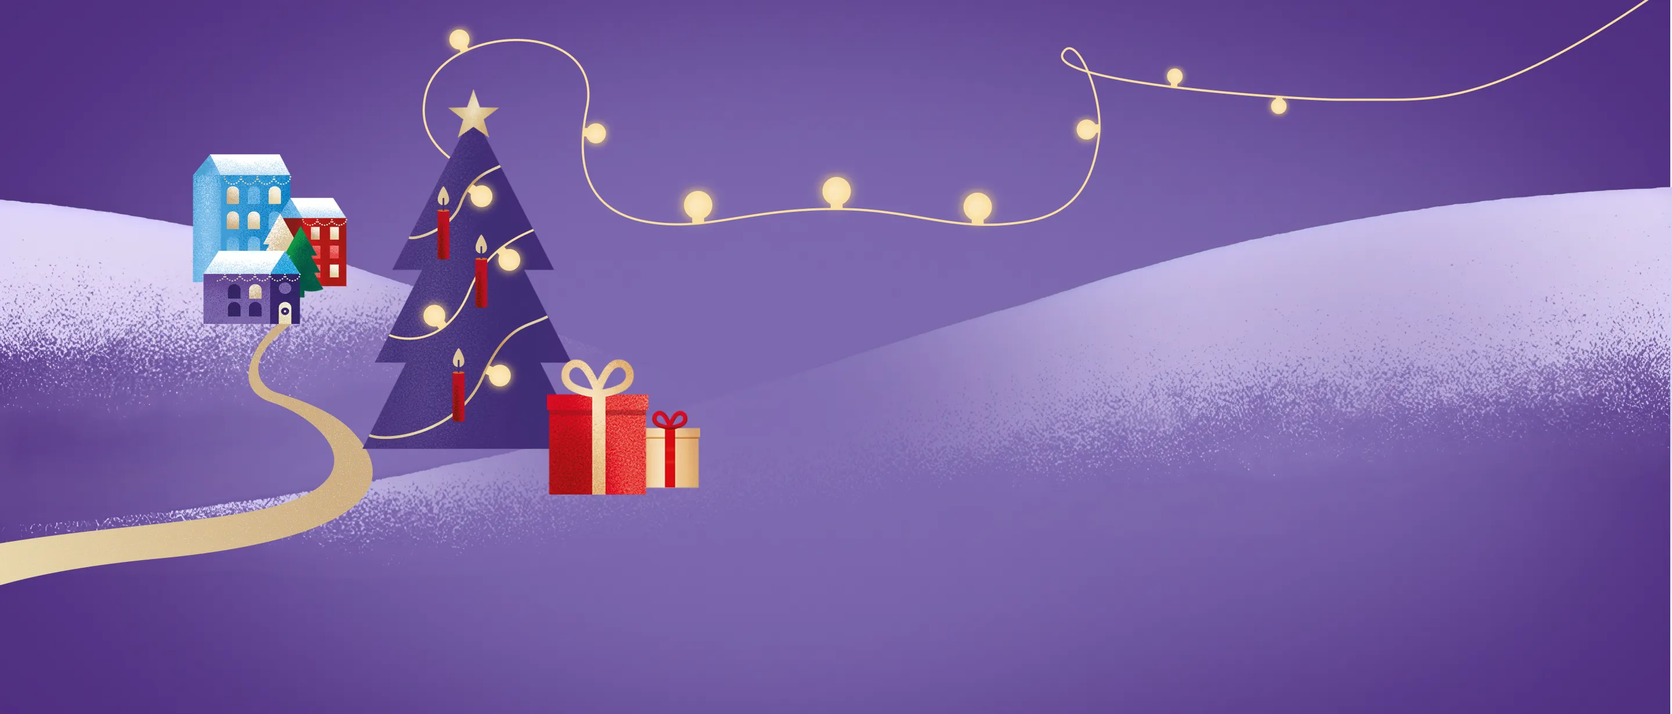
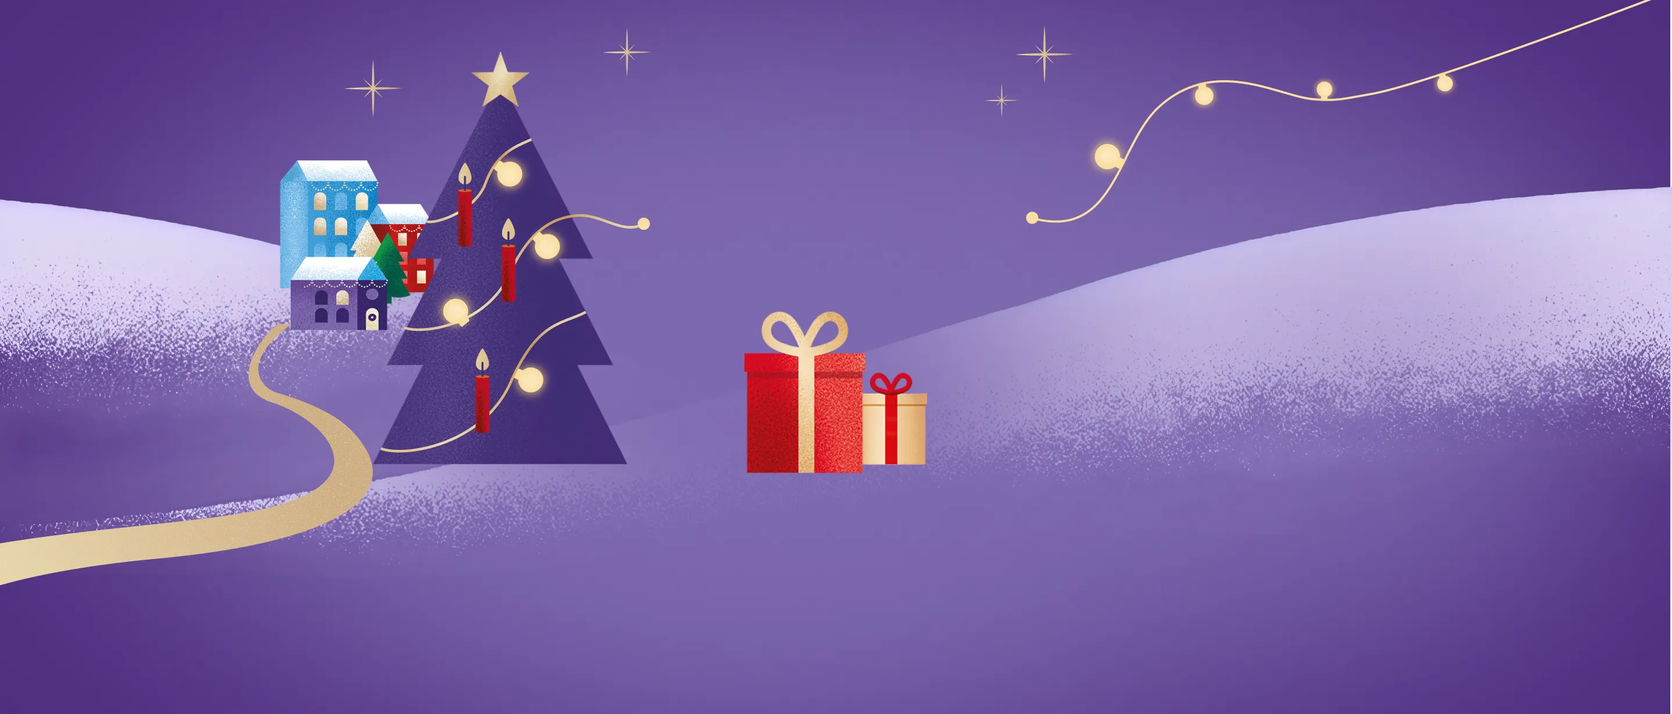
remake kero

diff --git a/assets/css/styles.min.css b/assets/css/styles.min.css
@@ -1,1 +1,1 @@
-:root{--font: "congenial", sans-serif;--heavy: "heavy", sans-serif;--gradient: linear-gradient(90deg, #ecddb2 0%, #cead7c);--white: #ffffff;--black: #000000;--bg: #513082;--color: #3b2774;--violet: #7d69af;--yellow: #f9dea2}@font-face{font-family:"congenial";src:url("../fonts/congenial-light.woff2") format("woff2");font-weight:300;font-style:normal}@font-face{font-family:"congenial";src:url("../fonts/congenial-medium.woff2") format("woff2");font-weight:500;font-style:normal}@font-face{font-family:"heavy";src:url("../fonts/heavy.woff2") format("woff2");font-weight:500;font-style:normal}@keyframes rotate{0%{transform:rotate(0deg)}100%{transform:rotate(360deg)}}@keyframes rotateleft{0%{transform:rotate(0deg)}100%{transform:rotate(-360deg)}}@keyframes pulse{0%{transform:scale(1)}50%{transform:scale(1.1)}100%{transform:scale(1)}}@keyframes blink{0%,100%{opacity:1}50%{opacity:0}}@keyframes scrollDown{0%,100%{transform:translateY(0) scaleX(0.8)}50%{transform:translateY(-10px) scaleX(1)}}@keyframes slide{0%{transform:translate(-200%, -25%) rotate(-40deg)}30%,100%{transform:translate(200%, -25%) rotate(-40deg)}}@keyframes bounce{0%{transform:scale(1)}25%{transform:scale(1)}30%{transform:scale(1.1)}35%{transform:scale(1.08)}40%{transform:scale(1.1)}45%{transform:scale(1.095)}50%{transform:scale(1.1)}75%{transform:scale(1.1)}80%{transform:scale(1)}85%{transform:scale(1.02)}90%{transform:scale(1)}95%{transform:scale(1.005)}100%{transform:scale(1)}}:root{font-synthesis:none;text-rendering:optimizeLegibility;-webkit-font-smoothing:antialiased;-moz-osx-font-smoothing:grayscale;outline:none;-webkit-tap-highlight-color:rgba(0,0,0,0);backface-visibility:hidden;-webkit-text-size-adjust:100%}*,*:before,*:after{padding:0;margin:0;box-sizing:border-box;-webkit-tap-highlight-color:rgba(0,0,0,0)}html{height:100%}body{overscroll-behavior:none;-webkit-overflow-scrolling:auto;position:relative;width:100%;height:100%;background-color:var(--bg);color:var(--white);font-family:var(--font);font-weight:300;line-height:1.4;overflow-x:hidden;overflow-y:auto}html,body{overscroll-behavior:none}img{display:block;-o-object-fit:cover;object-fit:cover;-webkit-user-select:none;-moz-user-select:none;user-select:none}h1,h2,h3,h4,h5,h6,b,strong{font-family:var(--heavy);color:inherit}button{position:relative;border:none;cursor:pointer;background:none;color:inherit}button:disabled{cursor:auto;opacity:.3;pointer-events:none}ul,menu{list-style:none}a{text-decoration:none}.gradient{background-image:var(--gradient);background-clip:text;-webkit-background-clip:text;color:rgba(0,0,0,0);-webkit-text-fill-color:rgba(0,0,0,0)}.body{display:flex;flex-direction:column}.main{display:block;position:relative;z-index:1;flex:1}.container{display:block;position:relative;width:100%;max-width:1280px;margin:0 auto}.container.container--800{max-width:802px}@media(max-width: 1310px){.container{padding:0px 20px}}.section{position:relative;overflow:hidden;z-index:2}.section.visible{overflow:visible}.slider-arrows{display:inline-flex;gap:12px;padding-bottom:10px;justify-content:space-between}@media(max-width: 1279px){.slider-arrows{gap:10px;padding-bottom:8px}}@media(max-width: 767px){.slider-arrows{display:none}}.swiper{width:100%}.swiper-arrow{display:flex;position:absolute;width:44px;height:44px;border:none;flex-wrap:wrap;justify-content:center;align-items:center;align-content:center;opacity:1;transition:opacity .3s;z-index:3;margin-top:-35px;top:50%}.swiper-arrow[data-arrow-prev]{background:url("../img/svg/arrow-prev.svg") no-repeat center center;background-size:auto 100%;right:calc(100% + 20px)}.swiper-arrow[data-arrow-next]{background:url("../img/svg/arrow-next.svg") no-repeat center center;background-size:auto 100%;left:calc(100% + 20px)}.swiper-arrow.swiper-button-disabled{opacity:.3;pointer-events:none}@media(max-width: 899px){.swiper-arrow{display:none}}.swiper-pagination{display:flex;position:relative;width:100% !important;height:20px;flex-wrap:wrap;justify-content:center;align-items:center;align-content:center;bottom:0px !important;gap:20px}.swiper-pagination .swiper-pagination-bullet{display:flex;justify-content:center;align-items:center;align-content:center;position:absolute;left:50% !important;transform:scale(1) translate(-50%, 0%);margin:0 !important;opacity:0;width:40px;height:20px;border-radius:0px;background:none;transition:.6s !important;pointer-events:none}.swiper-pagination .swiper-pagination-bullet.swiper-pagination-bullet-active-next-next{position:absolute;transform:scale(1);left:50% !important;opacity:0;transform:translate(calc(200% + 20px), 0%)}.swiper-pagination .swiper-pagination-bullet.swiper-pagination-bullet-active-prev-prev{position:absolute;transform:scale(1);left:50% !important;opacity:0;transform:translate(calc(-300% - 20px), 0%)}.swiper-pagination .swiper-pagination-bullet.swiper-pagination-bullet-active-main{position:absolute;transform:scale(1);left:50% !important;opacity:1;transform:translate(-50%, 0%)}.swiper-pagination .swiper-pagination-bullet.swiper-pagination-bullet-active-next{position:absolute;transform:scale(1);left:50% !important;opacity:.3;transform:translate(100%, 0%);pointer-events:all}.swiper-pagination .swiper-pagination-bullet.swiper-pagination-bullet-active-prev{position:absolute;transform:scale(1);left:50% !important;opacity:.3;transform:translate(-200%, 0%);pointer-events:all}.swiper-pagination .swiper-pagination-bullet:before{content:"";position:absolute;width:100%;height:4px;border-radius:2px;background-color:var(--color);opacity:1;transition:background-color .3s,opacity .3s}.swiper-pagination .swiper-pagination-bullet.swiper-pagination-bullet-active:before{background-color:var(--brown)}.header{display:block;position:absolute;left:0px;top:0px;width:100%;height:160px}.header .logo{position:absolute;width:clamp(131px, 6.8229vw, 341px);height:clamp(64px, 3.3333vw, 167px);right:50%;top:clamp(45px, 2.3438vw, 117px);margin-right:clamp(520px, 27.0833vw, 1354px)}.header .logo img{width:100%;height:100%}.header .fond{position:absolute;width:clamp(90px, 4.6875vw, 234px);border-radius:80px;height:clamp(80px, 4.1667vw, 208px);left:50%;top:clamp(20px, 1.0417vw, 52px);transform:translate(clamp(586px, 30.5208vw, 1526px), 0px)}@media(max-width: 1430px)and (min-width: 768px){.header .logo{position:absolute;width:131px;height:64px;right:auto;left:20px;top:30px;margin-right:0px}.header .fond{width:60px;height:54px;border-radius:0px;left:auto;right:20px;top:30px;background:url("../img/logo-fond.webp") no-repeat center center/cover;transform:translate(0px, 0px)}}@media(max-width: 767px){.header .logo{position:absolute;width:100px;height:48px;right:auto;left:20px;top:20px;margin-right:0px}.header .fond{width:60px;height:60px;left:50%;top:14px;transform:translate(98px, 0px)}}.button{display:flex;overflow:hidden;z-index:1;min-height:42px;font-family:var(--font);justify-content:center;align-items:center;align-content:center;position:relative;color:var(--white);padding:10px 30px;z-index:1;transition:background .3s,transform .2s;-webkit-user-select:none;-moz-user-select:none;user-select:none;outline:none;cursor:pointer;border-radius:40px;background:linear-gradient(180deg, #ff2933, #7b1015);transform:translate(0px, 0px)}.button span{display:flex;width:100%;justify-content:center;align-items:center;align-content:center;font-weight:500;padding-top:1px;font-size:18px;line-height:1}.button:before{content:"";display:block;position:absolute;left:0px;top:0px;width:100%;height:100%;background:url("../img/noize.png") repeat;background-size:20px 20px;opacity:.4}.button.button--violet{min-height:40px;background:var(--violet)}.button.button--violet span{font-size:12px;font-weight:500;line-height:1;text-transform:uppercase}.button.button--violet:before{content:none}@media(hover: hover){.button.button--violet:hover,.button.button--violet:focus{background:var(--color)}}.button.full{width:100%}.button:active{transform:translate(0px, 2px)}.titles .title:before,.titles .title:after{content:"";display:block;position:absolute;height:125px;width:100vw;background:url("../img/lights.webp") no-repeat left center;background-size:auto 100%;top:50%}@media(max-width: 767px){.titles .title:before,.titles .title:after{content:none}}.titles .title:before{right:100%;transform:translate(0px, -50%) scaleX(-1)}.titles .title:after{left:100%;transform:translate(0px, -50%)}.titles.no-lights .title:before,.titles.no-lights .title:after{content:none}@media(min-width: 2044px){.titles.no-lights{margin-top:40px}}.titles .subtitle{margin-top:10px}.title{position:relative;text-align:center;text-transform:uppercase;font-family:var(--font);margin:0 auto}.title .ta--l{text-align:left}.subtitle{font-weight:500;font-size:28px;line-height:1.1;text-align:center;text-transform:uppercase;color:var(--white);font-family:var(--font);font-weight:500}@media(max-width: 767px){.subtitle{font-size:22px;max-width:345px;margin:auto;margin-top:16px;margin-bottom:10px}}.subtitle .ta--l{text-align:left}svg text.title.title--h2{font-size:44px;font-family:var(--font);text-transform:uppercase}svg text.title.title--h1{font-size:54px;font-family:var(--heavy);text-transform:uppercase}.title.title--main{width:clamp(344px, 17.9167vw, 896px);position:relative}@media(max-width: 1279px){.title.title--main{top:-20px}}@media(max-width: 767px){.title.title--main{width:300px;top:18px}}.title.title-products{width:344px;position:relative}@media(max-width: 1279px){.title.title-products{margin-bottom:-10px}}@media(max-width: 767px){.title.title-products{width:260px;margin-bottom:-20px;margin-top:20px}}@media(max-width: 414px){.title.title-products{margin-top:-20px}}.title.title--nabor{width:514px;position:relative}@media(max-width: 1279px){.title.title--nabor{margin-bottom:-10px}}@media(max-width: 767px){.title.title--nabor{width:100%;margin-bottom:0px}}.title.title--brends{width:310px;position:relative}@media(max-width: 1279px){.title.title--brends{margin-bottom:-10px}}@media(max-width: 767px){.title.title--brends{width:230px;margin-bottom:-20px}}.section--hero{position:relative;will-change:transform;width:100%;height:clamp(820px, 42.7083vw, 1012px);pointer-events:none}.section--hero .container{position:relative;z-index:2;pointer-events:all}.section--hero .header{z-index:3}.section--hero .header a{pointer-events:all}.section--hero .titles{margin-top:clamp(60px, 3.125vw, 156px)}.section--hero:before{content:"";display:block;position:absolute;right:0px;top:120px;width:clamp(120px, 8.5938vw, 204px);height:clamp(148px, 10.625vw, 252px);background:url("../img/home.webp") no-repeat center center/cover;z-index:2}@media(min-width: 1600px){.section--hero:before{top:180px;right:-19px}}@media(min-width: 1921px){.section--hero:before{right:0px;top:240px}}@media(max-width: 767px){.section--hero:before{top:580px}}.scene{display:block;position:absolute;z-index:1;left:50%;top:0px;width:100%;min-width:1920px;height:820px;transform:translate(-50%, 0%);pointer-events:none;background:url("../img/hero-bg.webp") no-repeat center top/cover}@media(max-width: 1430px){.scene{background:url("../img/hero-bg-tablet.webp") no-repeat center top/cover}}.description{display:flex;flex-direction:column;justify-content:flex-start;align-items:center;width:100%;max-width:460px;margin:0 auto;margin-top:clamp(80px, 4.1667vw, 208px);text-align:center;gap:10px}.description ul{display:flex;position:relative;width:100%;flex-wrap:wrap;justify-content:center;align-items:flex-start;align-content:flex-start;gap:10px}.description ul li{flex:1;font-size:18px;font-weight:500;text-transform:uppercase}.description ul li b{font-size:24px;color:var(--yellow)}@media(max-width: 1279px){.section--hero{height:750px;margin-bottom:-450px}.scene{height:750px;background-size:1600px 700px}.description{max-width:400px;margin-top:40px;gap:0px}.description ul li{font-size:16px}.description ul li b{font-size:22px}}@media(max-width: 767px){.section--hero{height:1024px;margin-bottom:-370px}.scene{height:1024px;background:url("../img/hero-bg-mobil.webp") no-repeat center top/cover;background-size:768px 1024px}}@media(max-width: 767px)and (max-width: 414px){.scene{background:url("../img/hero-bg-mobil2.webp") no-repeat center top/cover;background-size:414px 1024px}}@media(max-width: 767px){.description{max-width:310px;margin-top:54px;gap:0px}.description ul li:last-child{margin-top:30px;margin-bottom:12px}}.section--girl{height:clamp(490px, 25.5208vw, 1276px);margin-top:-740px;margin-bottom:-200px;z-index:3;pointer-events:none}@media(min-width: 1921px){.section--girl{margin-top:calc(-1*clamp(-740px, 38.5417vw, 906px))}}@media(max-width: 767px){.section--girl{margin-top:-660px;margin-bottom:-200px}}@media(min-width: 2044px){.section--girl{margin-bottom:-220px}}.girl{width:auto;height:clamp(488px, 25.4167vw, 1271px);display:block;position:absolute;bottom:0px;left:50%;transform:translate(clamp(180px, 9.375vw, 469px), 0%)}@media(min-width: 1600px){.girl{left:51%}}@media(max-width: 1439px){.girl{height:440px;transform:translate(160px, 0%)}}@media(max-width: 1279px){.girl{height:340px;left:auto;right:0px;transform:translate(20px, 0%)}}@media(min-width: 768px)and (max-width: 1023px){.girl{height:250px;transform:translate(40px, 0%)}}@media(max-width: 767px){.girl{height:380px;left:50%;right:auto;transform:translate(-50%, 0%)}}.section--body{padding-top:200px;padding-bottom:360px;margin-bottom:-360px;background:url("../img/body-bg.webp") no-repeat center top;background-size:1920px 2378px;pointer-events:none}.section--body .container{pointer-events:all}.section--body:before{content:"";position:absolute;pointer-events:none;width:100%;height:550px;left:0px;top:0px;background:url("../img/lights-top.webp") no-repeat center top;background-size:auto 550px}@media(max-width: 1365px){.section--body{margin-bottom:-300px}}@media(max-width: 1279px){.section--body{margin-top:-220px}}@media(min-width: 1921px){.section--body{background-size:100% 2378px}}@media(min-width: 2044px){.section--body{background-size:100% 2378px}.section--body:before{top:clamp(0px, 1.5625vw, 40px);background:url("../img/lights-top.webp") no-repeat center center;background-size:auto 650px}}@media(max-width: 767px){.section--body{background:url("../img/body-bg-mobil.webp") no-repeat center top;background-size:100% 2442px;margin-bottom:-350px}.section--body:before{top:18px;background-size:5600px 480px}}@media(max-width: 414px){.section--body{margin-top:20px}}.brends{display:flex;position:relative;width:100%;flex-wrap:wrap;justify-content:center;align-items:center;align-content:center;gap:20px;margin:30px auto}.brends li{width:calc((100% - 40px)/3)}@media(max-width: 767px){.brends li{width:100%}}.brends li a{display:flex;position:relative;width:100%;max-width:364px;margin:auto;height:80px;flex-wrap:wrap;justify-content:center;align-items:center;align-content:center;border-radius:15px}.slider{display:block;position:relative;width:802px}@media(max-width: 767px){.slider{width:528px}.slider .swiper-arrow{display:none}}.slider .swiper{overflow:visible}.slider .swiper-slide{display:flex;flex-direction:column;justify-content:flex-start;align-items:center;height:388px;border-radius:20px;position:relative;overflow:hidden;z-index:1;background:linear-gradient(#ffffff, #6f50aa);margin:20px 0px 60px 0px;box-shadow:0px 35px 22px -24px rgba(46,24,78,.8);transition:opacity .5s;opacity:0}.slider .swiper-slide.swiper-slide-active,.slider .swiper-slide.swiper-slide-active+.swiper-slide,.slider .swiper-slide.swiper-slide-active+.swiper-slide+.swiper-slide{opacity:1}.slider .swiper-slide:before{content:"";display:block;position:absolute;left:0px;top:0px;width:100%;height:100%;background:url("../img/noize.png") repeat;background-size:20px 20px;opacity:.3}.slider .swiper-slide .product-image{display:flex;position:relative;width:100%;justify-content:center;align-items:center;align-content:center}.slider .swiper-slide .product-image:before{content:"";display:block;width:100%;padding-top:95%}.slider .swiper-slide .product-image img{position:absolute;width:100%;height:100%;left:0px;top:0px}.slider .swiper-slide .product-title{padding:0px 10px;text-align:center;display:block;font-size:18px;font-weight:500;line-height:1.2;text-transform:uppercase;flex-shrink:0}.slider .swiper-slide span{width:100%;padding:0px 15px 20px 15px;display:block;text-align:center;margin-top:auto;font-weight:500;font-size:12px;color:#d0c5ec;flex-shrink:0}.footer{display:flex;width:100%;height:auto;flex-direction:column;justify-content:flex-end;align-items:center;align-content:center;position:relative;z-index:2;padding:clamp(90px, 9.7222vw, 140px) 0px 40px 0px;overflow:hidden;background:url("../img/footer.webp") no-repeat center top;background-size:100% 140%;flex-shrink:0;color:var(--color)}.footer .container{display:flex;position:relative;width:100%;flex-wrap:wrap;justify-content:space-between;align-items:flex-end;align-content:flex-end;gap:30px}.footer__contacts{display:inline-flex;position:relative;flex-direction:column;align-items:flex-start;gap:10px;min-width:234px}.footer__contacts .button{min-width:188px}.footer__contacts .mondelez{width:164px;margin-bottom:10px}.footer__contacts .tel{color:var(--color);font-weight:500;font-size:24px;line-height:1}.footer__contacts p{font-size:12px}.footer__policy{flex:1}.footer__policy .policy{color:var(--color);font-size:12px;text-align:center}.footer__navigation ul{display:flex;position:relative;width:100%;flex-direction:column;gap:22px}.footer__navigation ul li{width:100%}.footer__navigation ul li a{display:block;width:100%;font-size:16px;line-height:1;text-align:right;white-space:nowrap;color:var(--color)}@media(hover: hover){.footer__navigation ul li a:hover{text-decoration:underline}}@media(max-width: 767px){.footer{background:url("../img/footer.webp") no-repeat right top/cover}.footer .container{flex-wrap:nowrap;flex-direction:column;justify-content:flex-start;align-items:center;align-content:center;max-width:280px}.footer__contacts{align-items:center;order:1}.footer__policy{order:3}.footer__policy .policy{max-width:230px}.footer__navigation{order:2}.footer__navigation ul{gap:20px}.footer__navigation ul li a{text-align:center}}
+:root{--font: "congenial", sans-serif;--heavy: "heavy", sans-serif;--gradient: linear-gradient(90deg, #ecddb2 0%, #cead7c);--white: #ffffff;--black: #000000;--bg: #513082;--color: #3b2774;--violet: #7d69af;--yellow: #f9dea2}@font-face{font-family:"congenial";src:url("../fonts/congenial-light.woff2") format("woff2");font-weight:300;font-style:normal}@font-face{font-family:"congenial";src:url("../fonts/congenial-medium.woff2") format("woff2");font-weight:500;font-style:normal}@font-face{font-family:"heavy";src:url("../fonts/heavy.woff2") format("woff2");font-weight:500;font-style:normal}@keyframes rotate{0%{transform:rotate(0deg)}100%{transform:rotate(360deg)}}@keyframes rotateleft{0%{transform:rotate(0deg)}100%{transform:rotate(-360deg)}}@keyframes pulse{0%{transform:scale(1)}50%{transform:scale(1.1)}100%{transform:scale(1)}}@keyframes blink{0%,100%{opacity:1}50%{opacity:0}}@keyframes scrollDown{0%,100%{transform:translateY(0) scaleX(0.8)}50%{transform:translateY(-10px) scaleX(1)}}@keyframes slide{0%{transform:translate(-200%, -25%) rotate(-40deg)}30%,100%{transform:translate(200%, -25%) rotate(-40deg)}}@keyframes bounce{0%{transform:scale(1)}25%{transform:scale(1)}30%{transform:scale(1.1)}35%{transform:scale(1.08)}40%{transform:scale(1.1)}45%{transform:scale(1.095)}50%{transform:scale(1.1)}75%{transform:scale(1.1)}80%{transform:scale(1)}85%{transform:scale(1.02)}90%{transform:scale(1)}95%{transform:scale(1.005)}100%{transform:scale(1)}}:root{font-synthesis:none;text-rendering:optimizeLegibility;-webkit-font-smoothing:antialiased;-moz-osx-font-smoothing:grayscale;outline:none;-webkit-tap-highlight-color:rgba(0,0,0,0);backface-visibility:hidden;-webkit-text-size-adjust:100%}*,*:before,*:after{padding:0;margin:0;box-sizing:border-box;-webkit-tap-highlight-color:rgba(0,0,0,0)}html{height:100%}body{overscroll-behavior:none;-webkit-overflow-scrolling:auto;position:relative;width:100%;height:100%;background-color:var(--bg);color:var(--white);font-family:var(--font);font-weight:300;line-height:1.4;overflow-x:hidden;overflow-y:auto}html,body{overscroll-behavior:none}img{display:block;-o-object-fit:cover;object-fit:cover;-webkit-user-select:none;-moz-user-select:none;user-select:none}h1,h2,h3,h4,h5,h6,b,strong{font-family:var(--heavy);color:inherit}button{position:relative;border:none;cursor:pointer;background:none;color:inherit}button:disabled{cursor:auto;opacity:.3;pointer-events:none}ul,menu{list-style:none}a{text-decoration:none}.gradient{background-image:var(--gradient);background-clip:text;-webkit-background-clip:text;color:rgba(0,0,0,0);-webkit-text-fill-color:rgba(0,0,0,0)}.body{display:flex;flex-direction:column}.main{display:block;position:relative;z-index:1;flex:1}.container{display:block;position:relative;width:100%;max-width:1280px;margin:0 auto}.container.container--800{max-width:802px}@media(max-width: 1310px){.container{padding:0px 20px}}.section{position:relative;overflow:hidden;z-index:2}.section.visible{overflow:visible}.slider-arrows{display:inline-flex;gap:12px;padding-bottom:10px;justify-content:space-between}@media(max-width: 1279px){.slider-arrows{gap:10px;padding-bottom:8px}}@media(max-width: 767px){.slider-arrows{display:none}}.swiper{width:100%}.swiper-arrow{display:flex;position:absolute;width:44px;height:44px;border:none;flex-wrap:wrap;justify-content:center;align-items:center;align-content:center;opacity:1;transition:opacity .3s;z-index:3;margin-top:-35px;top:50%}.swiper-arrow[data-arrow-prev]{background:url("../img/svg/arrow-prev.svg") no-repeat center center;background-size:auto 100%;right:calc(100% + 20px)}.swiper-arrow[data-arrow-next]{background:url("../img/svg/arrow-next.svg") no-repeat center center;background-size:auto 100%;left:calc(100% + 20px)}.swiper-arrow.swiper-button-disabled{opacity:.3;pointer-events:none}@media(max-width: 899px){.swiper-arrow{display:none}}.swiper-pagination{display:flex;position:relative;width:100% !important;height:20px;flex-wrap:wrap;justify-content:center;align-items:center;align-content:center;bottom:0px !important;gap:20px}.swiper-pagination .swiper-pagination-bullet{display:flex;justify-content:center;align-items:center;align-content:center;position:absolute;left:50% !important;transform:scale(1) translate(-50%, 0%);margin:0 !important;opacity:0;width:40px;height:20px;border-radius:0px;background:none;transition:.6s !important;pointer-events:none}.swiper-pagination .swiper-pagination-bullet.swiper-pagination-bullet-active-next-next{position:absolute;transform:scale(1);left:50% !important;opacity:0;transform:translate(calc(200% + 20px), 0%)}.swiper-pagination .swiper-pagination-bullet.swiper-pagination-bullet-active-prev-prev{position:absolute;transform:scale(1);left:50% !important;opacity:0;transform:translate(calc(-300% - 20px), 0%)}.swiper-pagination .swiper-pagination-bullet.swiper-pagination-bullet-active-main{position:absolute;transform:scale(1);left:50% !important;opacity:1;transform:translate(-50%, 0%)}.swiper-pagination .swiper-pagination-bullet.swiper-pagination-bullet-active-next{position:absolute;transform:scale(1);left:50% !important;opacity:.3;transform:translate(100%, 0%);pointer-events:all}.swiper-pagination .swiper-pagination-bullet.swiper-pagination-bullet-active-prev{position:absolute;transform:scale(1);left:50% !important;opacity:.3;transform:translate(-200%, 0%);pointer-events:all}.swiper-pagination .swiper-pagination-bullet:before{content:"";position:absolute;width:100%;height:4px;border-radius:2px;background-color:var(--color);opacity:1;transition:background-color .3s,opacity .3s}.swiper-pagination .swiper-pagination-bullet.swiper-pagination-bullet-active:before{background-color:var(--brown)}.header{display:block;position:absolute;left:0px;top:0px;width:100%;height:160px}.header .logo{position:absolute;width:clamp(131px, 6.8229vw, 341px);height:clamp(64px, 3.3333vw, 167px);left:50%;top:clamp(45px, 2.3438vw, 117px);transform:translate(-50%, 0%)}.header .logo img{width:100%;height:100%}.header .fond{position:absolute;width:clamp(90px, 4.6875vw, 234px);border-radius:80px;height:clamp(80px, 4.1667vw, 208px);left:50%;top:clamp(20px, 1.0417vw, 52px);transform:translate(clamp(586px, 30.5208vw, 1526px), 0px)}@media(max-width: 1430px)and (min-width: 768px){.header .fond{width:60px;height:54px;border-radius:0px;left:auto;right:20px;top:30px;background:url("../img/logo-fond.webp") no-repeat center center/cover;transform:translate(0px, 0px)}}@media(max-width: 767px){.header .logo{position:absolute;width:100px;height:48px;right:auto;left:20px;top:20px;transform:translate(0%, 0%);margin-right:0px}.header .fond{width:60px;height:60px;left:50%;top:14px;transform:translate(98px, 0px)}}.button{display:flex;overflow:hidden;z-index:1;min-height:42px;font-family:var(--font);justify-content:center;align-items:center;align-content:center;position:relative;color:var(--white);padding:10px 30px;z-index:1;transition:background .3s,transform .2s;-webkit-user-select:none;-moz-user-select:none;user-select:none;outline:none;cursor:pointer;border-radius:40px;background:linear-gradient(180deg, #ff2933, #7b1015);transform:translate(0px, 0px)}.button span{display:flex;width:100%;justify-content:center;align-items:center;align-content:center;font-weight:500;padding-top:1px;font-size:18px;line-height:1}.button:before{content:"";display:block;position:absolute;left:0px;top:0px;width:100%;height:100%;background:url("../img/noize.png") repeat;background-size:20px 20px;opacity:.4}.button.button--violet{min-height:40px;background:var(--violet)}.button.button--violet span{font-size:12px;font-weight:500;line-height:1;text-transform:uppercase}.button.button--violet:before{content:none}@media(hover: hover){.button.button--violet:hover,.button.button--violet:focus{background:var(--color)}}.button.full{width:100%}.button:active{transform:translate(0px, 2px)}.titles .title:before,.titles .title:after{content:"";display:block;position:absolute;height:125px;width:100vw;background:url("../img/lights.webp") no-repeat left center;background-size:auto 100%;top:50%}@media(max-width: 767px){.titles .title:before,.titles .title:after{content:none}}.titles .title:before{right:100%;transform:translate(0px, -50%) scaleX(-1)}.titles .title:after{left:100%;transform:translate(0px, -50%)}.titles.no-lights .title:before,.titles.no-lights .title:after{content:none}@media(min-width: 2044px){.titles.no-lights{margin-top:40px}}.titles .subtitle{margin-top:10px}.title{position:relative;text-align:center;text-transform:uppercase;font-family:var(--font);margin:0 auto}.title .ta--l{text-align:left}.subtitle{font-weight:500;font-size:28px;line-height:1.1;text-align:center;text-transform:uppercase;color:var(--white);font-family:var(--font);font-weight:500}@media(max-width: 767px){.subtitle{font-size:22px;max-width:345px;margin:auto;margin-top:16px;margin-bottom:10px}}.subtitle .ta--l{text-align:left}svg text.title.title--h2{font-size:44px;font-family:var(--font);text-transform:uppercase}svg text.title.title--h1{font-size:54px;font-family:var(--heavy);text-transform:uppercase}.title.title--main{width:clamp(444px, 23.125vw, 1156px);position:relative}@media(max-width: 1279px){.title.title--main{top:-30px;width:clamp(380px, 29.6875vw, 380px)}}@media(max-width: 767px){.title.title--main{width:280px;top:18px}}.title.title-products{width:344px;position:relative}@media(max-width: 1279px){.title.title-products{margin-bottom:-10px}}@media(max-width: 767px){.title.title-products{width:260px;margin-bottom:-20px;margin-top:20px}}@media(max-width: 414px){.title.title-products{margin-top:-20px}}.title.title--nabor{width:514px;position:relative}@media(max-width: 1279px){.title.title--nabor{margin-bottom:-10px}}@media(max-width: 767px){.title.title--nabor{width:100%;margin-bottom:0px}}.title.title--brends{width:310px;position:relative}@media(max-width: 1279px){.title.title--brends{margin-bottom:-10px}}@media(max-width: 767px){.title.title--brends{width:230px;margin-bottom:-20px}}.section--hero{position:relative;will-change:transform;width:100%;height:clamp(820px, 42.7083vw, 1093px);pointer-events:none}.section--hero .container{position:relative;z-index:2;pointer-events:none}.section--hero .header{z-index:3}.section--hero .header a{pointer-events:all}.section--hero .titles{margin-top:clamp(180px, 9.375vw, 469px)}.section--hero:before{content:"";display:block;position:absolute;right:0px;top:120px;width:clamp(120px, 8.5938vw, 204px);height:clamp(148px, 10.625vw, 252px);background:url("../img/home.webp") no-repeat center center/cover;z-index:3}@media(min-width: 1600px){.section--hero:before{top:120px;right:-19px}}@media(min-width: 1921px){.section--hero:before{right:0px;top:190px}}@media(max-width: 767px){.section--hero:before{top:320px}}.scene{display:block;position:absolute;z-index:1;left:50%;top:0px;width:100%;min-width:1920px;height:clamp(820px, 42.7083vw, 1093px);transform:translate(-50%, 0%);pointer-events:all;background:url("../img/hero-bg.webp") no-repeat center top/cover;z-index:2}@media(max-width: 1430px){.scene{background:url("../img/hero-bg-tablet.webp") no-repeat center top/cover}}.description{display:flex;flex-direction:column;justify-content:flex-start;align-items:center;width:100%;max-width:460px;margin:0 auto;margin-top:clamp(80px, 4.1667vw, 107px);text-align:center;gap:10px}.description ul{display:flex;position:relative;width:100%;flex-wrap:wrap;justify-content:center;align-items:flex-start;align-content:flex-start;gap:10px}.description ul li{flex:1;font-size:18px;font-weight:500;text-transform:uppercase}.description ul li b{font-size:24px;color:var(--yellow)}@media(max-width: 1279px){.section--hero{height:750px;margin-bottom:-450px}.scene{height:750px;background-size:1600px 700px}.description{max-width:400px;margin-top:40px;gap:0px}.description ul li{font-size:16px}.description ul li b{font-size:22px}}@media(max-width: 767px){.section--hero{height:750px}.section--hero .title{margin-top:-110px}.scene{height:500px;background:url("../img/hero-bg-mobil.webp") no-repeat center top/cover;background-size:768px 500px}.description{max-width:310px;margin-top:54px;gap:0px}.description ul li:last-child{margin-top:30px;margin-bottom:12px}}.section--girl{height:clamp(490px, 25.5208vw, 1276px);margin-top:-760px;margin-bottom:-200px;z-index:3;pointer-events:none}@media(min-width: 1921px){.section--girl{margin-top:calc(-1*clamp(-760px, 39.5833vw, 1013px))}}@media(max-width: 767px){.section--girl{margin-top:-660px;margin-bottom:-200px}}@media(min-width: 2044px){.section--girl{margin-bottom:-220px}}.girl{width:auto;height:clamp(488px, 25.4167vw, 1271px);display:block;position:absolute;bottom:0px;left:50%;transform:translate(clamp(180px, 9.375vw, 469px), 0%)}@media(min-width: 1600px){.girl{left:51%}}@media(max-width: 1439px){.girl{height:440px;transform:translate(160px, 0%)}}@media(max-width: 1279px){.girl{height:340px;left:auto;right:0px;transform:translate(20px, 0%)}}@media(min-width: 768px)and (max-width: 1023px){.girl{height:250px;transform:translate(40px, 0%)}}@media(max-width: 767px){.girl{height:380px;left:50%;right:auto;transform:translate(-50%, 0%)}}.section--body{padding-top:200px;padding-bottom:360px;margin-bottom:-360px;background:url("../img/body-bg.webp") no-repeat center top;background-size:1920px 2378px;pointer-events:none}.section--body .container{pointer-events:all}.section--body:before{content:"";position:absolute;pointer-events:none;width:100%;height:550px;left:0px;top:0px;background:url("../img/lights-top.webp") no-repeat center top;background-size:auto 550px}@media(max-width: 1365px){.section--body{margin-bottom:-300px}}@media(max-width: 1279px){.section--body{margin-top:-220px}}@media(min-width: 1921px){.section--body{background-size:100% 2378px}}@media(min-width: 2044px){.section--body{background-size:100% 2378px}.section--body:before{top:clamp(0px, 1.5625vw, 40px);background:url("../img/lights-top.webp") no-repeat center center;background-size:auto 650px}}@media(max-width: 767px){.section--body{background:url("../img/body-bg-mobil.webp") no-repeat center top;background-size:100% 2442px;margin-bottom:-350px}.section--body:before{top:18px;background-size:5600px 480px}}@media(max-width: 414px){.section--body{margin-top:20px}}.brends{display:flex;position:relative;width:100%;flex-wrap:wrap;justify-content:center;align-items:center;align-content:center;gap:20px;margin:30px auto}.brends li{width:calc((100% - 40px)/3)}@media(max-width: 767px){.brends li{width:100%}}.brends li a{display:flex;position:relative;width:100%;max-width:364px;margin:auto;height:80px;flex-wrap:wrap;justify-content:center;align-items:center;align-content:center;border-radius:15px}.slider{display:block;position:relative;width:802px}@media(max-width: 767px){.slider{width:528px}.slider .swiper-arrow{display:none}}.slider .swiper{overflow:visible}.slider .swiper-slide{display:flex;flex-direction:column;justify-content:flex-start;align-items:center;height:388px;border-radius:20px;position:relative;overflow:hidden;z-index:1;background:linear-gradient(#ffffff, #6f50aa);margin:20px 0px 60px 0px;box-shadow:0px 35px 22px -24px rgba(46,24,78,.8);transition:opacity .5s;opacity:0}.slider .swiper-slide.swiper-slide-active,.slider .swiper-slide.swiper-slide-active+.swiper-slide,.slider .swiper-slide.swiper-slide-active+.swiper-slide+.swiper-slide{opacity:1}.slider .swiper-slide:before{content:"";display:block;position:absolute;left:0px;top:0px;width:100%;height:100%;background:url("../img/noize.png") repeat;background-size:20px 20px;opacity:.3}.slider .swiper-slide .product-image{display:flex;position:relative;width:100%;justify-content:center;align-items:center;align-content:center}.slider .swiper-slide .product-image:before{content:"";display:block;width:100%;padding-top:95%}.slider .swiper-slide .product-image img{position:absolute;width:100%;height:100%;left:0px;top:0px}.slider .swiper-slide .product-title{padding:0px 10px;text-align:center;display:block;font-size:18px;font-weight:500;line-height:1.2;text-transform:uppercase;flex-shrink:0}.slider .swiper-slide span{width:100%;padding:0px 15px 20px 15px;display:block;text-align:center;margin-top:auto;font-weight:500;font-size:12px;color:#d0c5ec;flex-shrink:0}.footer{display:flex;width:100%;height:auto;flex-direction:column;justify-content:flex-end;align-items:center;align-content:center;position:relative;z-index:2;padding:clamp(90px, 9.7222vw, 140px) 0px 40px 0px;overflow:hidden;background:url("../img/footer.webp") no-repeat center top;background-size:100% 140%;flex-shrink:0;color:var(--color)}.footer .container{display:flex;position:relative;width:100%;flex-wrap:wrap;justify-content:space-between;align-items:flex-end;align-content:flex-end;gap:30px}.footer__contacts{display:inline-flex;position:relative;flex-direction:column;align-items:flex-start;gap:10px;min-width:234px}.footer__contacts .button{min-width:188px}.footer__contacts .mondelez{width:164px;margin-bottom:10px}.footer__contacts .tel{color:var(--color);font-weight:500;font-size:24px;line-height:1}.footer__contacts p{font-size:12px}.footer__policy{flex:1}.footer__policy .policy{color:var(--color);font-size:12px;text-align:center}.footer__navigation ul{display:flex;position:relative;width:100%;flex-direction:column;gap:22px}.footer__navigation ul li{width:100%}.footer__navigation ul li a{display:block;width:100%;font-size:16px;line-height:1;text-align:right;white-space:nowrap;color:var(--color)}@media(hover: hover){.footer__navigation ul li a:hover{text-decoration:underline}}@media(max-width: 767px){.footer{background:url("../img/footer.webp") no-repeat right top/cover}.footer .container{flex-wrap:nowrap;flex-direction:column;justify-content:flex-start;align-items:center;align-content:center;max-width:280px}.footer__contacts{align-items:center;order:1}.footer__policy{order:3}.footer__policy .policy{max-width:230px}.footer__navigation{order:2}.footer__navigation ul{gap:20px}.footer__navigation ul li a{text-align:center}}

diff --git a/assets/css/styles.css b/assets/css/styles.css
@@ -404,9 +404,9 @@ a {
   position: absolute;
   width: clamp(131px, 6.8229vw, 341px);
   height: clamp(64px, 3.3333vw, 167px);
-  right: 50%;
+  left: 50%;
   top: clamp(45px, 2.3438vw, 117px);
-  margin-right: clamp(520px, 27.0833vw, 1354px);
+  transform: translate(-50%, 0%);
 }
 .header .logo img {
   width: 100%;
@@ -423,15 +423,6 @@ a {
 }
 
 @media (max-width: 1430px) and (min-width: 768px) {
-  .header .logo {
-    position: absolute;
-    width: 131px;
-    height: 64px;
-    right: auto;
-    left: 20px;
-    top: 30px;
-    margin-right: 0px;
-  }
   .header .fond {
     width: 60px;
     height: 54px;
@@ -451,6 +442,7 @@ a {
     right: auto;
     left: 20px;
     top: 20px;
+    transform: translate(0%, 0%);
     margin-right: 0px;
   }
   .header .fond {
@@ -614,17 +606,18 @@ svg text.title.title--h1 {
 }
 
 .title.title--main {
-  width: clamp(344px, 17.9167vw, 896px);
+  width: clamp(444px, 23.125vw, 1156px);
   position: relative;
 }
 @media (max-width: 1279px) {
   .title.title--main {
-    top: -20px;
+    top: -30px;
+    width: clamp(380px, 29.6875vw, 380px);
   }
 }
 @media (max-width: 767px) {
   .title.title--main {
-    width: 300px;
+    width: 280px;
     top: 18px;
   }
 }
@@ -684,13 +677,13 @@ svg text.title.title--h1 {
   position: relative;
   will-change: transform;
   width: 100%;
-  height: clamp(820px, 42.7083vw, 1012px);
+  height: clamp(820px, 42.7083vw, 1093px);
   pointer-events: none;
 }
 .section--hero .container {
   position: relative;
   z-index: 2;
-  pointer-events: all;
+  pointer-events: none;
 }
 .section--hero .header {
   z-index: 3;
@@ -699,7 +692,7 @@ svg text.title.title--h1 {
   pointer-events: all;
 }
 .section--hero .titles {
-  margin-top: clamp(60px, 3.125vw, 156px);
+  margin-top: clamp(180px, 9.375vw, 469px);
 }
 .section--hero:before {
   content: "";
@@ -710,23 +703,23 @@ svg text.title.title--h1 {
   width: clamp(120px, 8.5938vw, 204px);
   height: clamp(148px, 10.625vw, 252px);
   background: url("../img/home.webp") no-repeat center center/cover;
-  z-index: 2;
+  z-index: 3;
 }
 @media (min-width: 1600px) {
   .section--hero:before {
-    top: 180px;
+    top: 120px;
     right: -19px;
   }
 }
 @media (min-width: 1921px) {
   .section--hero:before {
     right: 0px;
-    top: 240px;
+    top: 190px;
   }
 }
 @media (max-width: 767px) {
   .section--hero:before {
-    top: 580px;
+    top: 320px;
   }
 }
 
@@ -738,10 +731,11 @@ svg text.title.title--h1 {
   top: 0px;
   width: 100%;
   min-width: 1920px;
-  height: 820px;
+  height: clamp(820px, 42.7083vw, 1093px);
   transform: translate(-50%, 0%);
-  pointer-events: none;
+  pointer-events: all;
   background: url("../img/hero-bg.webp") no-repeat center top/cover;
+  z-index: 2;
 }
 @media (max-width: 1430px) {
   .scene {
@@ -757,7 +751,7 @@ svg text.title.title--h1 {
   width: 100%;
   max-width: 460px;
   margin: 0 auto;
-  margin-top: clamp(80px, 4.1667vw, 208px);
+  margin-top: clamp(80px, 4.1667vw, 107px);
   text-align: center;
   gap: 10px;
 }
@@ -805,22 +799,16 @@ svg text.title.title--h1 {
 }
 @media (max-width: 767px) {
   .section--hero {
-    height: 1024px;
-    margin-bottom: -370px;
+    height: 750px;
+  }
+  .section--hero .title {
+    margin-top: -110px;
   }
   .scene {
-    height: 1024px;
+    height: 500px;
     background: url("../img/hero-bg-mobil.webp") no-repeat center top/cover;
-    background-size: 768px 1024px;
+    background-size: 768px 500px;
   }
-}
-@media (max-width: 767px) and (max-width: 414px) {
-  .scene {
-    background: url("../img/hero-bg-mobil2.webp") no-repeat center top/cover;
-    background-size: 414px 1024px;
-  }
-}
-@media (max-width: 767px) {
   .description {
     max-width: 310px;
     margin-top: 54px;
@@ -833,14 +821,14 @@ svg text.title.title--h1 {
 }
 .section--girl {
   height: clamp(490px, 25.5208vw, 1276px);
-  margin-top: -740px;
+  margin-top: -760px;
   margin-bottom: -200px;
   z-index: 3;
   pointer-events: none;
 }
 @media (min-width: 1921px) {
   .section--girl {
-    margin-top: calc(-1 * clamp(-740px, 38.5417vw, 906px));
+    margin-top: calc(-1 * clamp(-760px, 39.5833vw, 1013px));
   }
 }
 @media (max-width: 767px) {

diff --git a/assets/scss/_section__hero.scss b/assets/scss/_section__hero.scss
@@ -3,12 +3,12 @@
   //transition: transform 2s cubic-bezier(0, 1, 0.3, 1);
   will-change: transform;
   width: 100%;
-  height: myclamp(820px, 820px, 1920px, 2370px);
+  height: myclamp(820px, 820px, 1920px, 2560px);
   pointer-events: none;
   .container {
     position: relative;
     z-index: 2;
-    pointer-events: all;
+    pointer-events: none;
   }
 
   .header {
@@ -19,7 +19,7 @@
   }
 
   .titles {
-    margin-top: myclamp(60px, 60px, 1920px, 5000px);
+    margin-top: myclamp(180px, 180px, 1920px, 5000px);
   }
 
   &:before {
@@ -31,17 +31,17 @@
     width: myclamp(120px, 165px, 1920px, 2370px);
     height: myclamp(148px, 204px, 1920px, 2370px);
     background: url('../img/home.webp') no-repeat center center/cover;
-    z-index: 2;
+    z-index: 3;
     @media (min-width: 1600px) {
-      top: 180px;
+      top: 120px;
       right: -19px;
     }
     @media (min-width: 1921px) {
       right: 0px;
-      top: 240px;
+      top: 190px;
     }
     @media (max-width: 767px) {
-      top: 580px;
+      top: 320px;
     }
   }
 }
@@ -54,10 +54,11 @@
   top: 0px;
   width: 100%;
   min-width: 1920px;
-  height: 820px;
+  height: myclamp(820px, 820px, 1920px, 2560px);
   transform: translate(-50%, 0%);
-  pointer-events: none;
+  pointer-events: all;
   background: url('../img/hero-bg.webp') no-repeat center top/cover;
+  z-index: 2;
 
   @media (max-width: 1430px) {
     background: url('../img/hero-bg-tablet.webp') no-repeat center top/cover;
@@ -72,7 +73,7 @@
   width: 100%;
   max-width: 460px;
   margin: 0 auto;
-  margin-top: myclamp(80px, 80px, 1920px, 5000px);
+  margin-top: myclamp(80px, 80px, 1920px, 2560px);
   text-align: center;
   gap: 10px;
 
@@ -129,19 +130,16 @@
 
 @media (max-width: 767px) {
   .section--hero {
-    height: 1024px;
-    margin-bottom: -370px;
+    height: 750px;
+    .title {
+      margin-top: -110px;
+    }
   }
 
   .scene {
-    height: 1024px;
+    height: 500px;
     background: url('../img/hero-bg-mobil.webp') no-repeat center top/cover;
-    background-size: 768px 1024px;
-
-    @media (max-width: 414px) {
-      background: url('../img/hero-bg-mobil2.webp') no-repeat center top/cover;
-      background-size: 414px 1024px;
-    }
+    background-size: 768px 500px;
   }
 
   .description {

diff --git a/index.html b/index.html
@@ -52,7 +52,7 @@
           <a href="https://fond-deystvuy.ru/" target="_blank" class="fond"></a>
         </header>
 
-        <div class="scene"></div>
+        <a href="https://t.me/MilkaNY_tender_bot?start=milkaru" class="scene" target="_blank"></a>
 
         <div class="container">
           <div class="titles no-lights">
@@ -75,24 +75,6 @@
                 </text>
               </svg>
             </h2>
-          </div>
-
-          <div class="description">
-            <ul>
-              <li>
-                <b>Зажигай</b><br />
-                <span>гирлянду нежности</span>
-              </li>
-              <li>
-                <b>Получай</b><br />
-                <span>комплимент от&nbsp;Milka</span>
-              </li>
-              <li>
-                <b>Подари праздник</b><br />
-                <span>подопечным фонда</span>
-              </li>
-            </ul>
-            <a href="https://t.me/MilkaNY_tender_bot?start=milkaru" target="_blank" class="button"><span>Участвовать</span></a>
           </div>
         </div>
       </section>

diff --git a/assets/scss/_header.scss b/assets/scss/_header.scss
@@ -10,9 +10,9 @@
     position: absolute;
     width: myclamp(131px, 131px, 1920px, 5000px);
     height: myclamp(64px, 64px, 1920px, 5000px);
-    right: 50%;
+    left: 50%;
     top: myclamp(45px, 45px, 1920px, 5000px);
-    margin-right: myclamp(520px, 520px, 1920px, 5000px);
+    transform: translate(-50%, 0%);
 
     img {
       width: 100%;
@@ -33,16 +33,6 @@
 
 @media (max-width: 1430px) and (min-width: 768px) {
   .header {
-    .logo {
-      position: absolute;
-      width: 131px;
-      height: 64px;
-      right: auto;
-      left: 20px;
-      top: 30px;
-      margin-right: 0px;
-    }
-
     .fond {
       width: 60px;
       height: 54px;
@@ -66,6 +56,7 @@
       right: auto;
       left: 20px;
       top: 20px;
+      transform: translate(0%, 0%);
       margin-right: 0px;
     }
 

diff --git a/assets/scss/_typography.scss b/assets/scss/_typography.scss
@@ -90,14 +90,15 @@ svg text.title.title--h1 {
 
 .title {
   &.title--main {
-    width: myclamp(344px, 344px, 1920px, 5000px);
+    width: myclamp(444px, 444px, 1920px, 5000px);
     position: relative;
 
     @media (max-width: 1279px) {
-      top: -20px;
+      top: -30px;
+      width: myclamp(380px, 380px, 1280px, 1280px);
     }
     @media (max-width: 767px) {
-      width: 300px;
+      width: 280px;
       top: 18px;
     }
   }

diff --git a/assets/scss/_section__body.scss b/assets/scss/_section__body.scss
@@ -1,11 +1,11 @@
 .section--girl {
   height: myclamp(490px, 490px, 1920px, 5000px);
-  margin-top: -740px;
+  margin-top: -760px;
   margin-bottom: -200px;
   z-index: 3;
   pointer-events: none;
   @media (min-width: 1921px) {
-    margin-top: myclamp(-740px, -740px, 1920px, 2350px);
+    margin-top: myclamp(-760px, -760px, 1920px, 2560px);
   }
   @media (max-width: 767px) {
     margin-top: -660px;

diff --git a/assets/js/scripts.js b/assets/js/scripts.js
@@ -1,5 +1,5 @@
 import { initSliders } from './sliders.js';
-import { initParallax } from './parallax.js';
+//import { initParallax } from './parallax.js';
 
 initSliders();
-initParallax();
+//initParallax();
